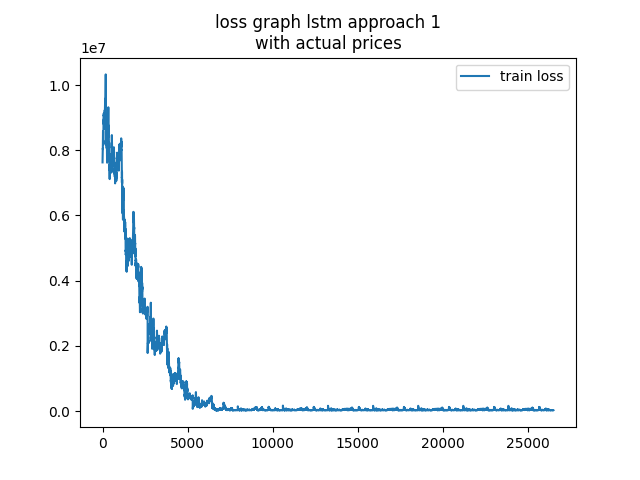
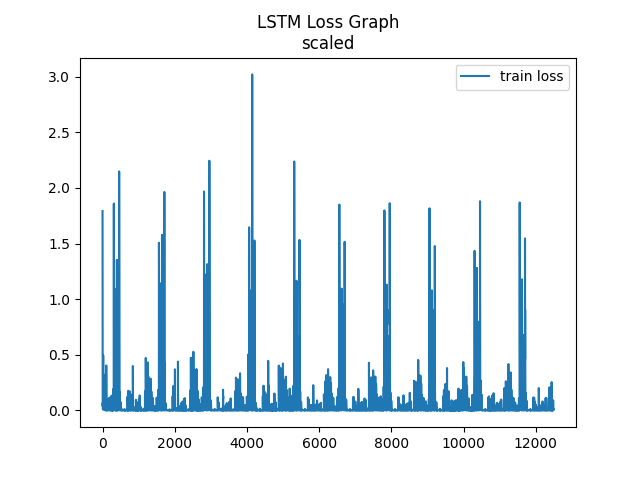
update data pipeline with minute data

diff --git a/main.py b/main.py
@@ -1,24 +1,25 @@
 ### this section represents a pipeline to return news data as a df of sentiment scores
-from utilities.get_data import *
-from utilities.clean_data import *
+from utilities.get_data import get_news_dummies, get_stock_dummies
+from utilities.clean_data import trading_days
 from utilities.sentiment_data import *
-from utilities.run_arima import *
-from utilities.prep_stock_data import *
-from model.lstm_approach_1 import *
+from utilities.run_arima import train_arima
+from utilities.prep_stock_data import split_stock_data, scale_stock_data
+from model.lstm_approach_1 import train_model_1
 
+# run get pipelines for news and stock data
 news_df = get_news_dummies()
-news_df = cleaner(news_df, 'text')
-news_df = score_sentiment(news_df, 'text', 'pub_time_est')
-
 stock_df = get_stock_dummies()
+
+# transform to minute-by-minute sentiment score and stock price
+df = trading_days(news_df, stock_df)
+
 # train arima on stock data only
-# train_arima(timeseries=stock_df, time_col='t')
+train_arima(timeseries=df[['t','c']], time_col='t', run_model=False)
 
 # split data into train, validation, and testing
-train, valid, test = split_stock_data(df=stock_df, time_col='t')
-
+train, valid, test = split_stock_data(df=df[['t','c']], time_col='t')
 # train lstm on unscaled data
-train_model_1(train, run_model=False)
+train_model_1(train, run_model=False, is_scaled=False)
 
 # scale stock data
 train_scaled, valid_scaled, test_scaled, scaler = scale_stock_data(train=train
@@ -26,17 +27,18 @@ train_scaled, valid_scaled, test_scaled, scaler = scale_stock_data(train=train
                                                                    , test=test
                                                                    )
 # train lstm on scaled data
-train_model_1(train_scaled, run_model=False)
+train_model_1(train_scaled, run_model=False, is_scaled=True)
 
 ###
 
-# minute-by-minute sentiment score and stock price
-df = trading_days(news_df, stock_df)
+# new split on data having closing price c and sentiment compound
 train, valid, test = split_stock_data(df=df, time_col='t')
+train_model_1(train, run_model=False, is_scaled=False)
+
 train_scaled, valid_scaled, test_scaled, scaler = scale_stock_data(train=train
                                                                    , valid=valid
                                                                    , test=test
                                                                    )
 #TODO: configure data loader and train model to handle sentiment features 'compound'
 # train on combined sentiment and stock data
-train_model_1(train_scaled, run_model=False)
+train_model_1(train_scaled, run_model=False, is_scaled=True)

diff --git a/model/lstm_approach_1.py b/model/lstm_approach_1.py
@@ -78,8 +78,9 @@ class Model(nn.Module):
         return predictions
 
 
-def train_model_1(df, epochs=10, learning_rate=0.01, run_model=True, sequence_length=59):
+def train_model_1(df, epochs=10, learning_rate=0.01, run_model=True, sequence_length=59, is_scaled=False):
     #TODO early stopping
+    #TODO run validation and test iterations
 
     losses = []
     preds = []
@@ -94,6 +95,11 @@ def train_model_1(df, epochs=10, learning_rate=0.01, run_model=True, sequence_le
 
     loss_function = nn.MSELoss()
     optimizer = torch.optim.Adam(model.parameters(), lr=learning_rate)
+
+    if is_scaled:
+        scale_type = 'scaled'
+    else:
+        scale_type = 'not scaled'
 
     if run_model:
         for epoch in range(epochs):
@@ -132,7 +138,8 @@ def train_model_1(df, epochs=10, learning_rate=0.01, run_model=True, sequence_le
 
         plt.figure()
         plt.plot(losses, label='train loss')
-        plt.title('loss graph lstm approach 1\nwith actual prices')
+        title = str('LSTM Loss Graph\n' + scale_type)
+        plt.title(title)
         plt.legend()
         plt.savefig('figures/lstm_approach_1_loss_actual.png')
         plt.show()
@@ -142,7 +149,8 @@ def train_model_1(df, epochs=10, learning_rate=0.01, run_model=True, sequence_le
         plt.figure()
         plt.plot(targets0, label='targets')
         plt.plot(preds0, label='predictions')
-        plt.title('price prediction to target lstm approach 1\nwith actual prices')
+        title = str('LSTM Predictions Graph\n' + scale_type)
+        plt.title(title)
         plt.legend()
         # plt.savefig('figures/lstm_approach_1_predictions_actual.png')
         plt.show()
@@ -152,7 +160,8 @@ def train_model_1(df, epochs=10, learning_rate=0.01, run_model=True, sequence_le
         plt.figure()
         plt.plot(targets0, label='targets')
         plt.plot(preds0, label='predictions')
-        plt.title('price prediction to target lstm approach 1\nwith actual prices')
+        title = str('LSTM Predictions Graph\n' + scale_type)
+        plt.title(title)
         plt.legend()
         # plt.savefig('figures/lstm_approach_1_predictions_actual.png')
         plt.show()

diff --git a/utilities/run_arima.py b/utilities/run_arima.py
@@ -4,7 +4,7 @@ import matplotlib.pyplot as plt
 import seaborn as sns
 import pandas as pd
 
-def train_arima(timeseries, time_col, date_min=None, date_max=None):
+def train_arima(timeseries, time_col, date_min=None, date_max=None, run_model=True):
     date_min = pd.to_datetime('2020-07-01')
     df = timeseries[timeseries[time_col] > date_min].copy()
 
@@ -12,17 +12,19 @@ def train_arima(timeseries, time_col, date_min=None, date_max=None):
     df = df[['c']]
 
     test_vals = df['c'].values
-    model = sarima(test_vals, (2,1,2))
 
-    yhat = model.predict(1,len(df))
+    if run_model:
+        model = sarima(test_vals, (2,1,2))
 
-    df['arima'] = yhat
+        yhat = model.predict(1,len(df))
 
-    # this is a canned example, the input and output need tuning
+        df['arima'] = yhat
 
-    plt.figure()
-    sns.lineplot(data=df)
-    plt.show()
+        plt.figure()
+        sns.lineplot(data=df)
+        plt.show()
+    else:
+        print('skipped run model')
 
 
 

diff --git a/utilities/get_data.py b/utilities/get_data.py
@@ -1,6 +1,7 @@
 import json
 import pandas as pd
-
+from utilities.clean_data import cleaner
+from utilities.sentiment_data import score_sentiment
 
 def get_news_dummies(date_col='pub_time', date_conversion='US/Eastern'):
     """
@@ -17,6 +18,10 @@ def get_news_dummies(date_col='pub_time', date_conversion='US/Eastern'):
         date_est =  date_col + '_est'
         df[date_est] = df[date_col].dt.tz_convert(None)
         df.drop(columns=date_col, inplace=True)
+
+    df = cleaner(df, 'text')
+
+    df = score_sentiment(df, 'text', 'pub_time_est')
 
     return df
 
